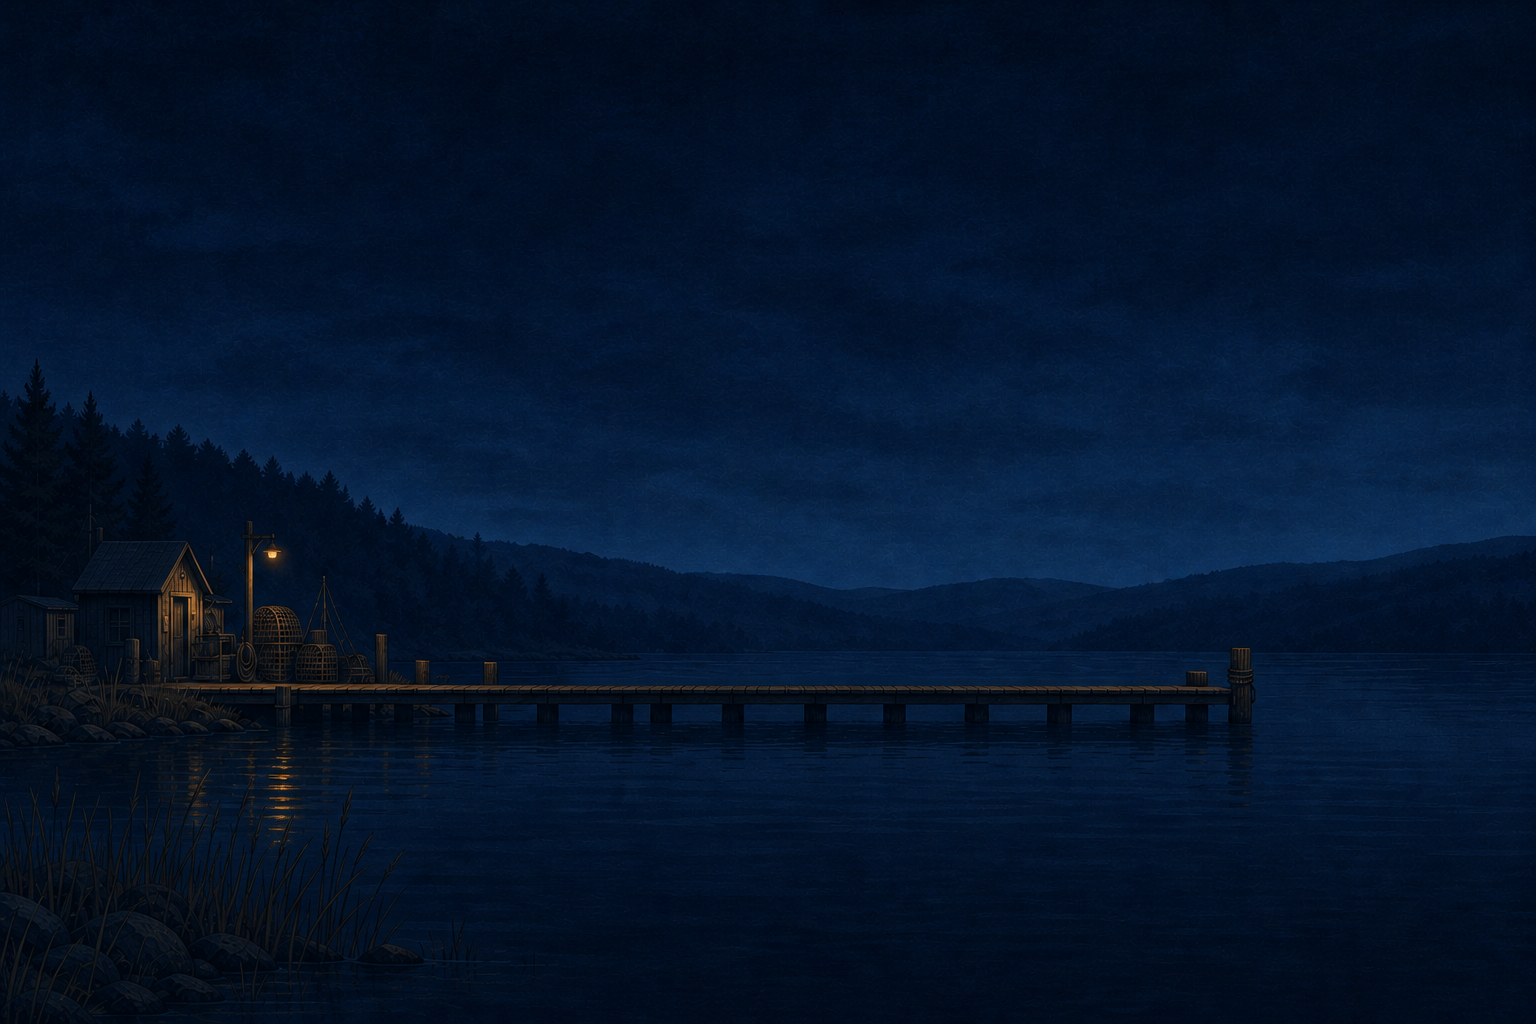
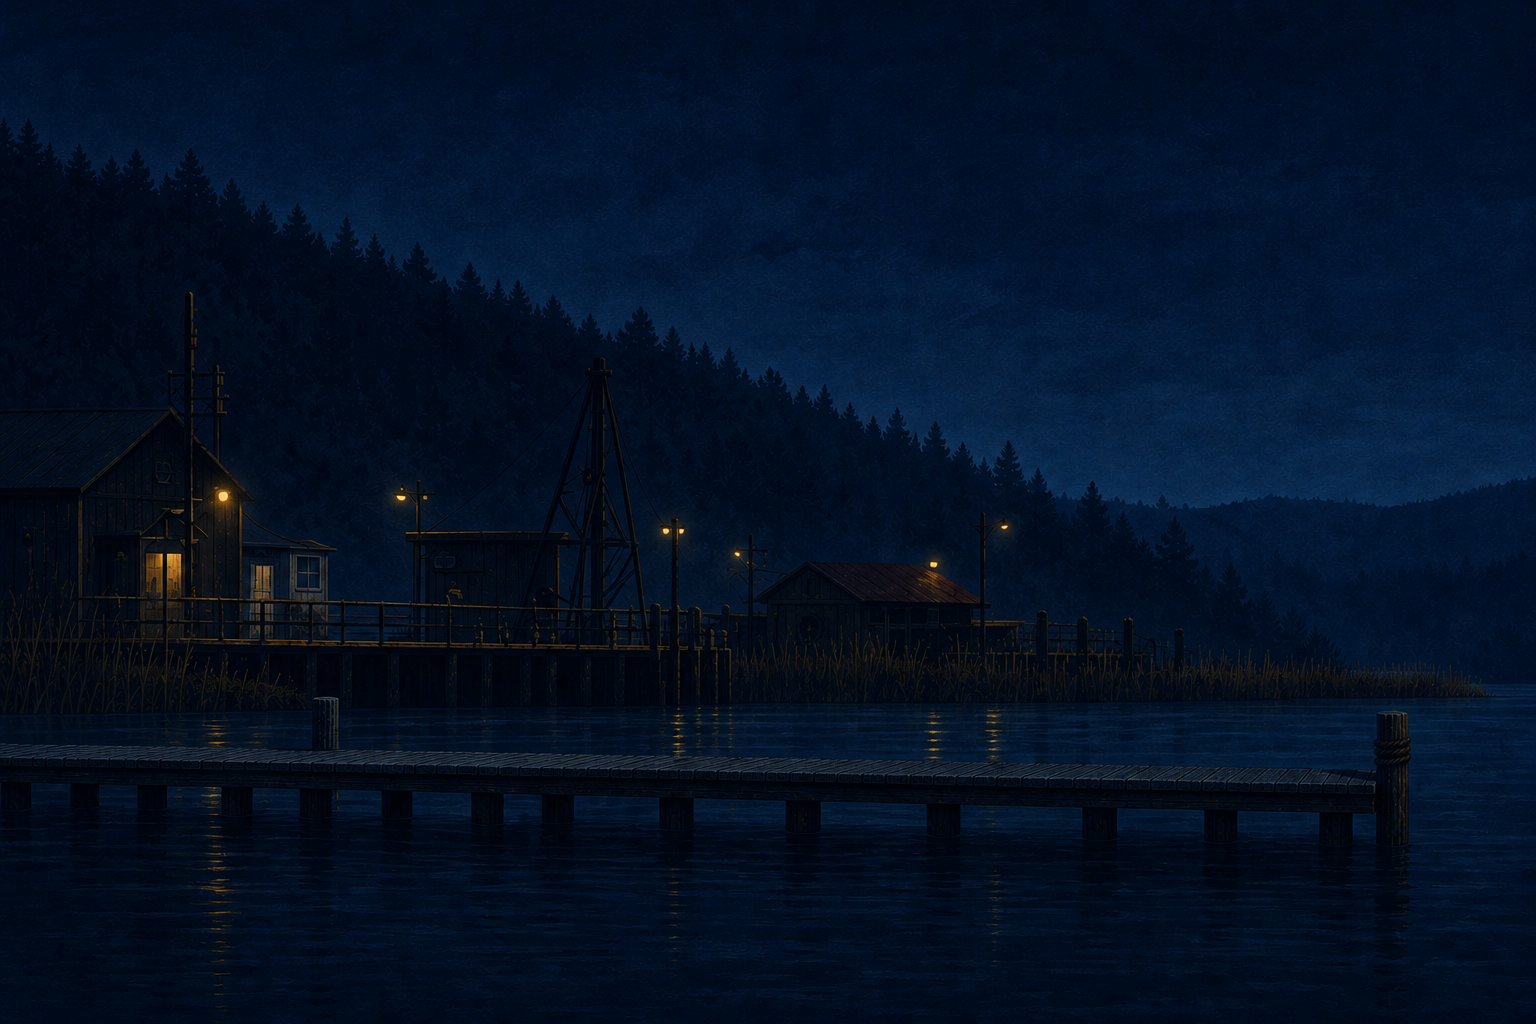
art: match docks to world landmarks

diff --git a/Docs/Game-Brief.md b/Docs/Game-Brief.md
@@ -159,7 +159,7 @@ Each harbor acts as a compact service point. A harbor may provide:
 - Region permits
 - Brief NPC dialogue
 
-The first release should reuse a consistent harbor interface rather than build fully explorable towns. Docking changes the full-screen setting behind that interface: Brindle Harbor uses a practical working-pier painting, while Gloam Ferry uses a sparse outer-lake landing. Both settings use a medium-wide environmental scale consistent with the sailing panorama: the pier stays low in the frame, its construction uses narrow boat-scale planks, and small harbor structures remain in the outer quarters around a quiet menu-safe center. Brindle's shoreline and buildings occupy the left edge while its pier extends rightward to a free terminal end; Gloam's shoreline and landing occupy the right edge while its pier extends leftward to a free terminal end, matching the player's approach from the left. Each dock has matched daytime and nighttime plates, blended from the same night intensity as the sailing panorama so the harbor never contradicts the lake's current time of day. The same waterline transition used for major scene changes covers both entering and leaving a dock, so the lake and dock paintings never snap directly between one another. Reduced-motion mode still swaps the setting immediately.
+The first release should reuse a consistent harbor interface rather than build fully explorable towns. Docking changes the full-screen setting behind that interface: Brindle Harbor uses a practical working-pier painting, while Gloam Ferry uses a sparse outer-lake landing. These settings are expanded views of the exact landmarks painted at the panorama's edges, not alternate interpretations of the locations. Brindle must preserve the large dark boathouse with its warm doorway and roof mast, the tall open A-frame working crane, the low red-roof shed, the reed-lined pilings, and their left-to-right order. Gloam must preserve the sloped railed ferry ramp, small square flat-roof ferry hut, tall red beacon mast, rocky bank, bare deciduous tree, and two dark conifers in their panorama arrangement. Both settings use a medium-wide environmental scale consistent with the sailing panorama: the pier stays low in the frame, its construction uses narrow boat-scale planks, and small harbor structures remain in the outer quarters around a quiet menu-safe center. Brindle's shoreline and buildings occupy the left edge while its pier extends rightward to a free terminal end; Gloam's shoreline and landing occupy the right edge while its pier extends leftward to a free terminal end, matching the player's approach from the left. Each dock has matched daytime and nighttime plates, blended from the same night intensity as the sailing panorama so the harbor never contradicts the lake's current time of day. The same waterline transition used for major scene changes covers both entering and leaving a dock, so the lake and dock paintings never snap directly between one another. Reduced-motion mode still swaps the setting immediately.
 
 The harbor interface opens on Delivery and separates Cargo and Dock services into focused submenus. One compact dark translucent dock panel creates a clear hierarchy of location and shells, category tabs, selected content, and secondary navigation. These sections share the same left and right edges. On a fresh save, a compact Survey → Catch → Deliver primer precedes the first guided assignment; this introduces the complete game loop without exposing later dock systems. After onboarding, every submenu omits the repeated objective panel and harbor subtitle so its functional content begins directly below the tabs. Delivery makes the job ticket the immediate visual focus: its job name is centred, its three sequential route steps are large enough to use the available space, the shell payment is explicitly labelled Reward, and active travel guidance uses the same dark panel language rather than a light legacy callout. Cargo uses a ten-slot game inventory: three slots are unlocked on a fresh save, caught fish occupy slots with freshness and release controls, and the other seven use a dedicated transparent cream-and-orange padlock pictogram. Selecting a locked slot gives it the shared restrained mechanical wobble, then opens Dock Services and focuses its tab; neutral borders and focus rings keep amber reserved for primary state. The same roughly half-degree hover/click response applies consistently to enabled buttons across the harbor, main, settings, controls, and pause menus, while reduced-motion settings suppress it. Dock Services presents one clearly separated full-width row per cargo, engine, lamp, line-depth, and permit option without an additional heading panel. Each row uses an icon plate, concise effect copy, a live level meter, and a shell-price purchase control calculated from the real balance model; Repair hull is not offered. Only one harbor function is visible at a time, the selected submenu keeps keyboard focus, and each submenu must fit supported desktop, portrait, and short-landscape viewports without page scrolling. Switching submenus leaves the title block, tab bar, and footer fixed while only the inner content changes. Tabs, service types, shell costs, and help actions use the shared transparent pictogram atlas with short visible labels; each pictogram is centred within an equal sprite cell. Repeated explanatory sentences are removed when the icon and local heading already communicate the action. The background remains recognisable beneath a darker overlay and light blur.
 

diff --git a/Docs/Asset-Manifest.md b/Docs/Asset-Manifest.md
@@ -88,10 +88,10 @@ The boat, harbor pier, fish atlas, and world atlas were requested on a uniform `
 - Runtime role: harbor- and time-specific full-screen settings behind the shared dock menu. Brindle Harbor is a practical working pier; Gloam Ferry is a colder, isolated outer-lake landing. Each harbor's day and night plates blend using the sailing scene's night intensity. The paintings are interface backdrops only and contain no boat, characters, labels, or UI.
 - Authoring sources: matching `output/imagegen/dock-*-source.png` files for all four runtime plates, regenerated on 7 August 2026
 - Generated and runtime dimensions: 1536 × 1024 for all four plates; runtime copies use quality-82 JPEG compression.
-- Generation mode: OpenAI built-in image generation using `lake-chart.png` as the authoritative painting, palette, atmosphere, and world-scale reference, `harbor-pier.png` for timber and narrow-plank construction, and `player-boat.png` for scale only. Each nighttime plate is a lighting-weather edit of its approved daytime anchor and preserves the anchor's exact camera, geometry, and placement.
-- Shared prompt direction: a medium-wide, zoomed-out dock environment in restrained editorial gouache and screen print. The pier is a slim human-scale structure with roughly 36–44 narrow plank divisions; harbor identity stays in an outer quarter around a calm low-detail center behind the menu panel. Full bleed; no boat, fish, people, text, logo, UI, detached sprite, chroma key, or transparency.
-- Brindle direction: practical freshwater working harbor attached to the left shoreline, with small sheds, creels, rope, reeds, and low wooded hills confined to the outer left quarter. Its pier extends rightward across open water to a free terminal end on the right. The day plate uses warm overcast light; its composition-matched night edit uses readable blue-black color and restrained amber work lamps.
-- Gloam direction: cold outer-lake ferry landing attached to the right shoreline, with a small ferry shelter, rock shelf, sparse pale reeds, and dark conifers confined to the outer right quarter. Its pier extends leftward across open water to a clearly visible free terminal and beacon on the left, matching the player's approach from that direction. The day plate uses cold clear overcast light; its composition-matched night edit uses deep violet-blue color and localized amber beacon light.
+- Generation mode: OpenAI built-in image generation using the in-game sailing views and `lake-chart.png` as authoritative identity, geography, palette, atmosphere, and world-scale references, plus `harbor-pier.png` for timber and narrow-plank construction only. The daytime plates expand the exact edge-of-panorama landmarks into dock-level menu views rather than inventing alternate harbors. Each nighttime plate is a lighting-weather edit of its approved daytime anchor and preserves the anchor's exact camera, geometry, and placement.
+- Shared prompt direction: a medium-wide dock-level view in restrained editorial gouache and screen print, recognizable as the same shoreline approached during sailing. Human-scale timber uses narrow plank divisions; the environment leaves readable sky and water behind the menu without replacing, rearranging, or redesigning source landmarks. Full bleed; no boat, fish, people, text, logo, UI, detached sprite, chroma key, or transparency.
+- Brindle direction: preserve the panorama's large dark boathouse with warm doorway and roof mast, small pale annex, tall open A-frame working crane, low red-roof shed, reed-lined pilings, and their left-to-right order. The foreground pier connects to the left harbor and extends rightward to a free terminal end. The day plate uses warm overcast light; its registered night edit uses readable blue-black color and restrained existing work lamps.
+- Gloam direction: preserve the panorama's left-to-right sloped railed ferry ramp, square flat-roof hut, tall red beacon mast with guy supports, smaller work light, rocky right bank, bare tree, and two tall conifers. The landing attaches to the right shoreline while its pier/ramp projects leftward to a free terminal end. The day plate uses cool overcast light with the red beacon visible; its registered night edit uses deep violet-blue color and localized existing beacon and hut light.
 
 ### `fishing-line-limit-float.png`
 
